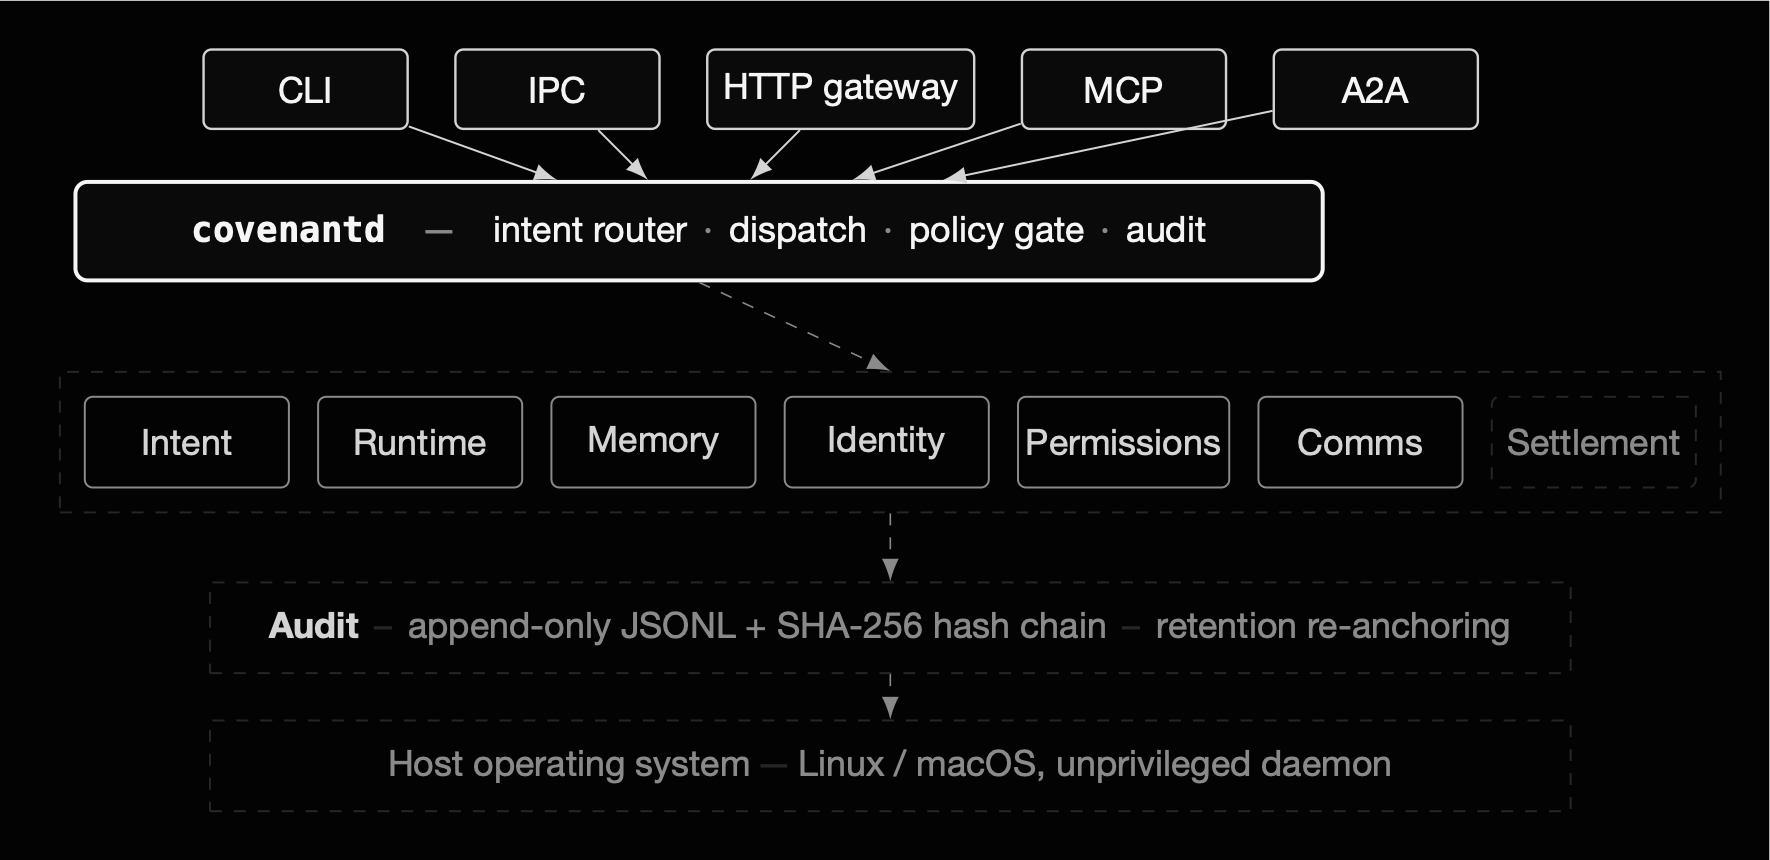
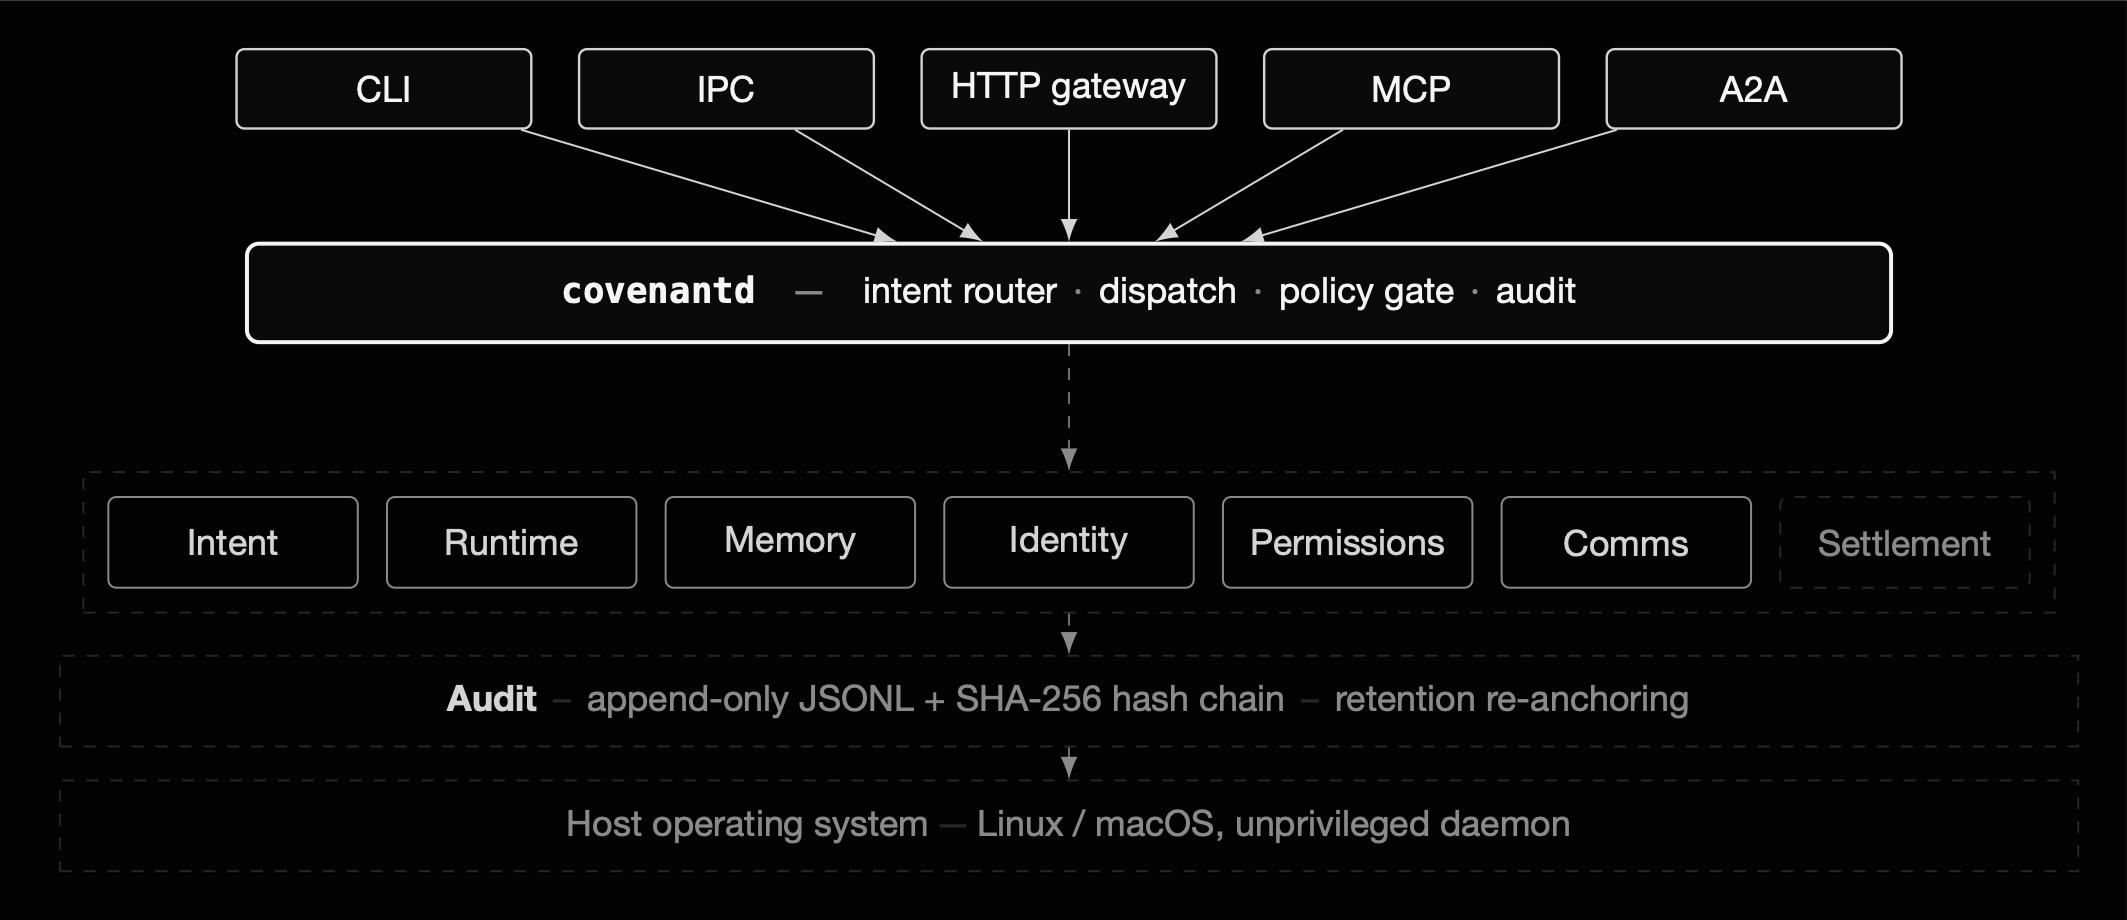
update readme

diff --git a/README.md b/README.md
@@ -17,7 +17,7 @@ Covenant sits below agent applications and above the host operating system. It o
 
 - **Web:** [opencovenant.org](https://opencovenant.org)
 - **Docs:** [docs.opencovenant.org](https://docs.opencovenant.org)
-- **Paper:** [`paper/main.pdf`](./paper/main.pdf) · [DOI: 10.5281/zenodo.20134416](https://doi.org/10.5281/zenodo.20134416)
+- **Paper:** [DOI: 10.5281/zenodo.20134416](https://doi.org/10.5281/zenodo.20134416)
 
 ## Quick start
 
